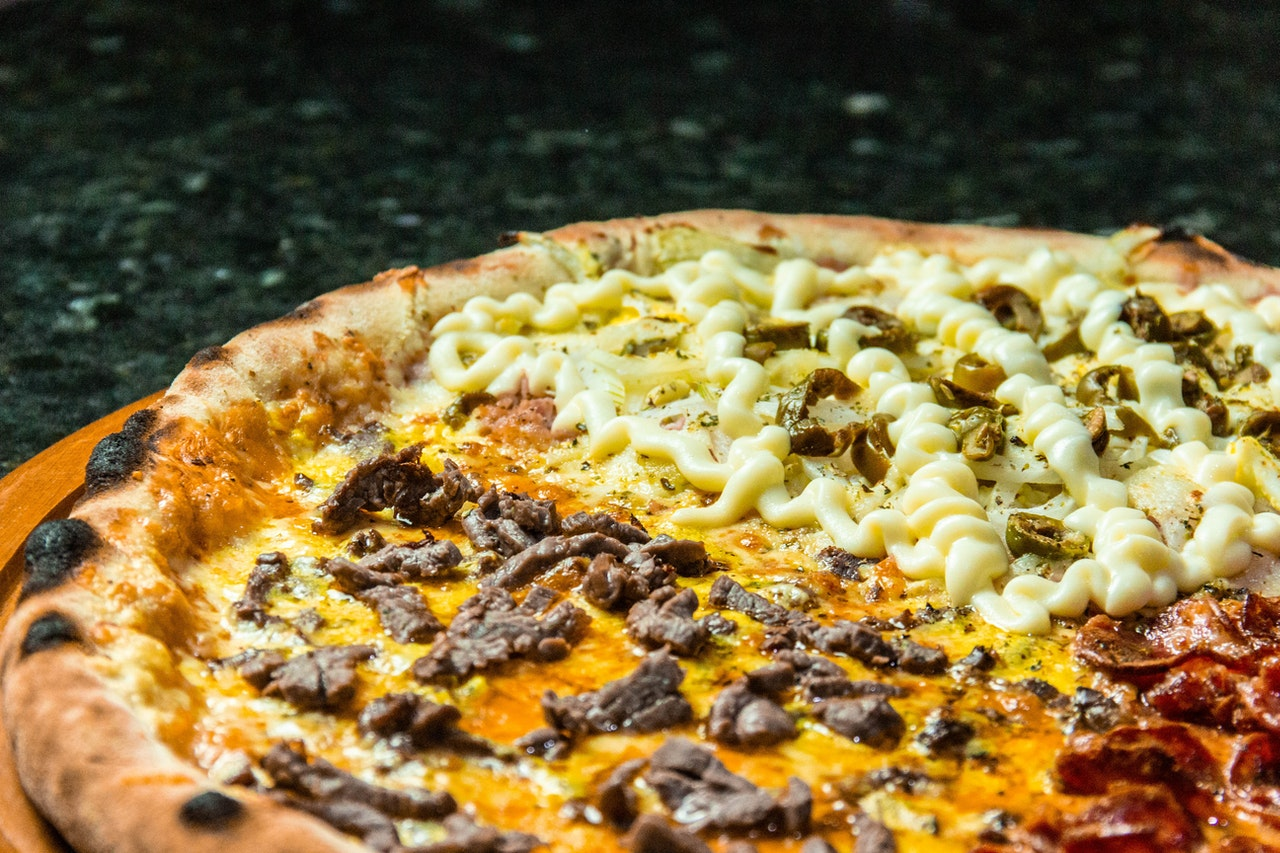
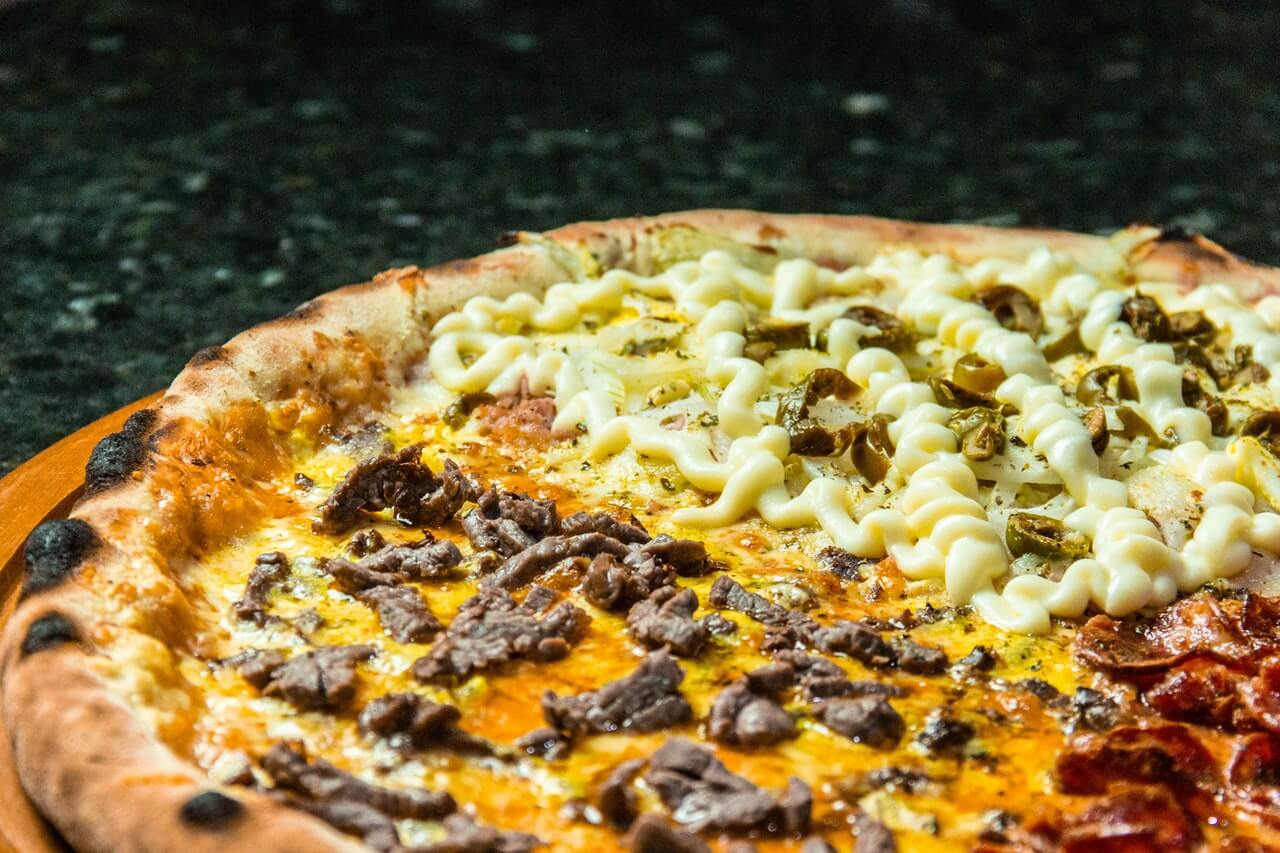
⏱ task: imagens otimizadas

Changed region(s): [[0.375, 0.5182, 0.4375, 0.5487], [0.2188, 0.5487, 0.2812, 0.5791], [0.625, 0.6401, 0.6562, 0.6706]]

diff --git a/src/components/NavBar/index.tsx b/src/components/NavBar/index.tsx
@@ -1,6 +1,8 @@
 import React from 'react';
 
-import { Container, NavLink, NavIcon, Bars } from './styles';
+import { Container, NavLink, NavIcon, Bars, Logo } from './styles';
+
+import ImgLogo from '../../assets/images/logo.png';
 
 interface NavBarProps {
   isOpened(): void;
@@ -9,7 +11,10 @@ interface NavBarProps {
 const NavBar: React.FC<NavBarProps> = ({ isOpened }: NavBarProps) => {
   return (
     <Container>
-      <NavLink to="/">Pizza</NavLink>
+      <NavLink to="/">
+        <Logo src={ImgLogo} alt="Logo" />
+        Pizza
+      </NavLink>
       <NavIcon onClick={isOpened}>
         <p>Menu</p>
         <Bars />

diff --git a/src/components/NavBar/styles.ts b/src/components/NavBar/styles.ts
@@ -7,7 +7,7 @@ export const Container = styled.nav`
   justify-content: center;
 
   background: transparent;
-  height: 80px;
+  height: 160px;
   font-weight: 700;
 `;
 
@@ -25,6 +25,11 @@ export const NavLink = styled(Link)`
     top: 10px;
     left: 25px;
   } ;
+`;
+
+export const Logo = styled.img`
+  display: block;
+  width: 120px;
 `;
 
 export const NavIcon = styled.div`
